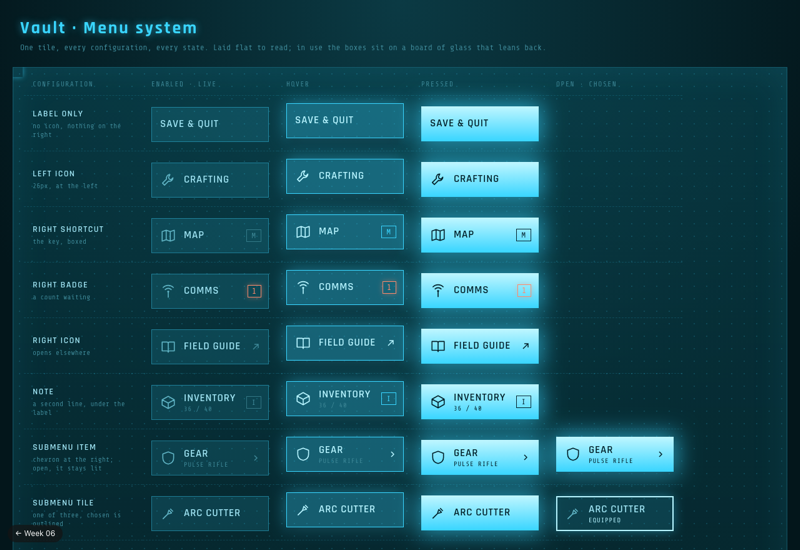
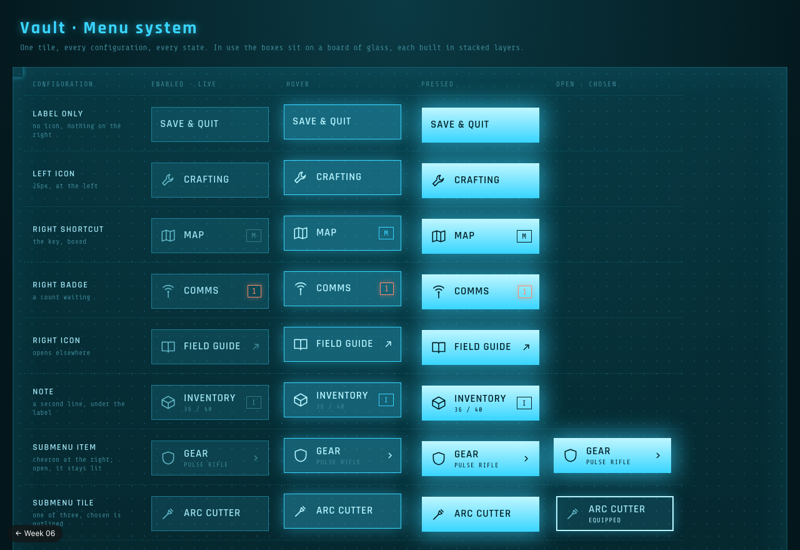
Week 06 Set 1 Vault: no tilt; the board seen straight on, each box's stacked layers stepping up and left
Claude-Session: https://claude.ai/code/session_01NJxmaEWhDanH1Md96UKkh6

diff --git a/week-06/week-06-vault-menu.html b/week-06/week-06-vault-menu.html
@@ -5,28 +5,27 @@
   <meta name="viewport" content="width=device-width, initial-scale=1" />
   <title>Week 06 · Set 1 · Vault · In use</title>
   <link rel="icon" href="../shared/favicon.svg" type="image/svg+xml" />
-  <link rel="stylesheet" href="week-06-vault.css?v=7" />
+  <link rel="stylesheet" href="week-06-vault.css?v=8" />
   <style>
   /* In use: the field menu of VAULT, a sci-fi salvage game, on its own. Shut, it is a MENU prompt.
-     Opened (the prompt, or Tab), a board of glass rises out of a line of light, leaning back like the
-     reference's sheet of glass. Its items are wide, low boxes in sections, each built in steps like
-     stacked frames. Point at a box and it lifts and fills with light; press it and it lights right
+     Opened (the prompt, or Tab), a board of glass rises out of a line of light, seen straight on. Its items are wide, low boxes in sections, each built in steps like
+     stacked frames. Point at a box and it steps up and fills with light; press it and it lights right
      through. Gear opens a submenu: a second, smaller board stacked above the first. Esc, Resume or a
      click outside takes it all down again, right to left, and folds the glass back into its line. */
   *, *::before, *::after { box-sizing: border-box; }
   html, body { margin: 0; }
   body { background: var(--void); color: var(--ink); font: 500 14px/1.3 var(--font); -webkit-font-smoothing: antialiased; }
   button { font: inherit; }
-  :root { --w: 1200px; --h: 520px; --fit: 1; }
+  :root { --w: 1200px; --h: 470px; --fit: 1; }
   .hero { position: relative; height: 100vh; min-height: 420px; overflow: hidden; background: #010a0c; }
-  .stage { position: absolute; left: 50%; top: 50%; width: var(--w); height: var(--h); transform: translate(-50%, -50%) scale(var(--fit)); perspective: 1500px; perspective-origin: 50% 40%; overflow: hidden; }
+  .stage { position: absolute; left: 50%; top: 50%; width: var(--w); height: var(--h); transform: translate(-50%, -50%) scale(var(--fit)); overflow: hidden; }
   .stage > * { position: absolute; }
 
   /* ---------- the room: nothing but a dark floor of light, so the menu is all there is ---------- */
   .play { inset: 0; background: radial-gradient(55% 60% at 50% 70%, #0a3a44, #03161b 60%, #010a0c); }
 
   /* the prompt: all of the menu there is while it is shut */
-  .prompt { left: 520px; top: 340px; width: 160px; height: 40px; display: flex; align-items: center; justify-content: center; gap: 12px; padding: 0; border: 0; cursor: pointer;
+  .prompt { left: 520px; top: 290px; width: 160px; height: 40px; display: flex; align-items: center; justify-content: center; gap: 12px; padding: 0; border: 0; cursor: pointer;
     background: rgba(57, 213, 255, .1); box-shadow: inset 0 0 0 1px rgba(57, 213, 255, .45); color: var(--ink); font: 600 15px/1 var(--font); letter-spacing: .2em;
     transition: background-color var(--hover-time), box-shadow var(--hover-time), color var(--hover-time), opacity 160ms; }
   .prompt kbd { padding: 3px 6px; border: 1px solid rgba(95, 179, 196, .5); font: 400 11px/1 var(--mono); letter-spacing: .06em; color: var(--ink-3); }
@@ -35,7 +34,7 @@
   .stage.is-menu .prompt { opacity: 0; pointer-events: none; }
 
   /* ---------- the board: the bottom half of the screen ---------- */
-  .board { left: 30px; top: 250px; width: 1140px; height: 238px; transform-style: preserve-3d; transform: rotateX(var(--board-tilt)); transform-origin: 50% 100%; visibility: hidden;
+  .board { left: 30px; top: 190px; width: 1140px; height: 238px; visibility: hidden;
     transition: visibility 0s calc(var(--close-time) + 160ms); }
   .stage.is-menu .board { visibility: visible; transition: visibility 0s; }
   /* the line of light along its foot, then the glass rising out of it */
@@ -51,8 +50,7 @@
   .board-head { position: absolute; left: 28px; right: 28px; top: 16px; display: flex; align-items: baseline; gap: 18px; font: 400 11px/1 var(--mono); letter-spacing: .1em; color: var(--ink-3); }
   .board-head b { font: 700 18px/1 var(--font); letter-spacing: .16em; color: var(--cyan); text-shadow: 0 0 10px rgba(57, 213, 255, .6); }
   .board-head span:last-child { margin-left: auto; }
-  .sections { position: absolute; left: 28px; top: 54px; display: flex; gap: var(--section-gap); transform-style: preserve-3d; }
-  .section { transform-style: preserve-3d; }
+  .sections { position: absolute; left: 28px; top: 54px; display: flex; gap: var(--section-gap); }
 
   /* ---------- each box is built in steps, like the reference's stacked frames ----------
      1 two corner nodes land on the glass
@@ -63,21 +61,21 @@
      Taking it down runs the same steps backwards, faster. Boxes are built left to right, and taken
      down right to left. */
   @property --draw { syntax: "<percentage>"; inherits: false; initial-value: 0%; }
-  .slot { display: block; position: relative; transform-style: preserve-3d; }
+  .slot { display: block; position: relative; }
   .sections .slot { --d: calc(var(--open-time) + var(--k) * var(--stack-step)); --dl: calc((var(--n) - 1 - var(--k)) * var(--leave-step)); }
   .sub .slot { --d: calc(80ms + var(--k) * var(--stack-step)); --dl: calc((2 - var(--k)) * var(--leave-step)); }
   .b-dot, .b-foot, .b-mid, .b-flash { position: absolute; pointer-events: none; }
   .b-dot { width: 6px; height: 6px; background: var(--node); box-shadow: 0 0 8px var(--node); opacity: 0; scale: 0;
     transition: opacity 80ms linear calc(var(--dl) + 180ms), scale 80ms linear calc(var(--dl) + 180ms); }
-  .b-dot.a { left: -9px; top: -9px; } .b-dot.b { right: -9px; bottom: -9px; }
-  .b-foot { inset: -6px; --c: rgba(57, 213, 255, .5);
+  .b-dot.a { left: -3px; top: -3px; } .b-dot.b { right: -3px; bottom: -3px; }
+  .b-foot { inset: 0; --c: rgba(57, 213, 255, .5);
     background: linear-gradient(var(--c), var(--c)) 0 0 / var(--draw) 1px no-repeat, linear-gradient(var(--c), var(--c)) 0 0 / 1px var(--draw) no-repeat,
                 linear-gradient(var(--c), var(--c)) 100% 100% / var(--draw) 1px no-repeat, linear-gradient(var(--c), var(--c)) 100% 100% / 1px var(--draw) no-repeat;
     transition: --draw 120ms cubic-bezier(.6, 0, .9, .4) calc(var(--dl) + 100ms); }
-  .b-mid { inset: -3px; border: 1px dotted rgba(57, 213, 255, .55); opacity: 0; translate: 0 0 0;
+  .b-mid { inset: 0; border: 1px dotted rgba(57, 213, 255, .6); opacity: 0; translate: 0 0;
     transition: translate 140ms ease-in calc(var(--dl) + 60ms), opacity 120ms linear calc(var(--dl) + 60ms); }
-  .b-flash { inset: 0; translate: 0 0 var(--rest); box-shadow: inset 0 0 0 1px var(--cyan-hi), 0 0 18px rgba(57, 213, 255, .8); opacity: 0; }
-  .slot > .tile { opacity: 0; translate: 0 0 0;
+  .b-flash { inset: 0; translate: calc(var(--rest) * -1) calc(var(--rest) * -1); box-shadow: inset 0 0 0 1px var(--cyan-hi), 0 0 18px rgba(57, 213, 255, .8); opacity: 0; }
+  .slot > .tile { opacity: 0; translate: 0 0;
     transition: translate 160ms cubic-bezier(.5, 0, .9, .5) var(--dl), opacity 140ms linear var(--dl),
       transform var(--hover-time) var(--ease-out), background-color var(--hover-time) var(--ease-out), box-shadow var(--hover-time) var(--ease-out), color var(--hover-time) var(--ease-out); }
   .slot > .tile > * { opacity: 0; translate: 0 3px; transition: opacity 80ms linear var(--dl), translate 80ms linear var(--dl); }
@@ -86,9 +84,9 @@
   .stage.is-menu:not(.is-leaving) .sections .slot, .sub.is-open .slot { --on: 1; }
   .stage.is-menu:not(.is-leaving) .sections .b-dot, .sub.is-open .b-dot { opacity: .85; scale: 1; transition: opacity 90ms linear var(--d), scale 160ms var(--stack-ease) var(--d); }
   .stage.is-menu:not(.is-leaving) .sections .b-foot, .sub.is-open .b-foot { --draw: 100%; transition: --draw var(--draw-time) var(--ease-out) calc(var(--d) + var(--phase)); }
-  .stage.is-menu:not(.is-leaving) .sections .b-mid, .sub.is-open .b-mid { opacity: 1; translate: 0 0 var(--mid-z);
+  .stage.is-menu:not(.is-leaving) .sections .b-mid, .sub.is-open .b-mid { opacity: 1; translate: calc(var(--mid-z) * -1) calc(var(--mid-z) * -1);
     transition: translate 240ms var(--ease-out) calc(var(--d) + 2 * var(--phase)), opacity 120ms linear calc(var(--d) + 2 * var(--phase)); }
-  .stage.is-menu:not(.is-leaving) .sections .slot > .tile, .sub.is-open .slot > .tile { opacity: 1; translate: 0 0 var(--rest);
+  .stage.is-menu:not(.is-leaving) .sections .slot > .tile, .sub.is-open .slot > .tile { opacity: 1; translate: calc(var(--rest) * -1) calc(var(--rest) * -1);
     transition: translate var(--stack-time) var(--stack-ease) calc(var(--d) + 3 * var(--phase)), opacity 160ms linear calc(var(--d) + 3 * var(--phase)),
       transform var(--hover-time) var(--ease-out), background-color var(--hover-time) var(--ease-out), box-shadow var(--hover-time) var(--ease-out), color var(--hover-time) var(--ease-out); }
   .stage.is-menu:not(.is-leaving) .sections .b-flash, .sub.is-open .b-flash { animation: arrive var(--stack-time) linear both; animation-delay: calc(var(--d) + 3 * var(--phase)); }
@@ -109,7 +107,7 @@
   @keyframes caret { 50% { opacity: 0; } }
 
   /* ---------- the submenu: a smaller board, stacked above the first ---------- */
-  .sub { position: absolute; left: 330px; top: -110px; width: 616px; padding: 14px 16px 16px; transform-style: preserve-3d; transform: translateZ(70px); visibility: hidden;
+  .sub { position: absolute; left: 330px; top: -132px; width: 616px; padding: 14px 16px 16px; visibility: hidden;
     transition: visibility 0s 340ms; }
   .sub.is-open { visibility: visible; transition: visibility 0s; }
   .sub .board-glass { scale: 1 1; opacity: 0; transition: opacity 140ms linear 220ms; }
@@ -181,7 +179,7 @@
 
   <section class="spec" aria-labelledby="spec-title">
     <h2 id="spec-title">Spec</h2>
-    <p>Read from the values this page runs on. The menu is a board of glass leaning back; its items are wide, low boxes in sections, each built in steps like stacked frames.</p>
+    <p>Read from the values this page runs on. The menu is a board of glass, seen straight on; its items are wide, low boxes in sections, each built in steps like stacked frames.</p>
     <div class="spec-grid"></div>
   </section>
 
@@ -195,7 +193,7 @@
       const log = board.querySelector('.log'), dTitle = document.getElementById('d-title'), dDesc = document.getElementById('d-desc');
 
       // fit the 1200 × 520 frame to the window
-      const fit = () => root.style.setProperty('--fit', Math.min(innerWidth / 1200, innerHeight / 520) * .96);
+      const fit = () => root.style.setProperty('--fit', Math.min(innerWidth / 1200, innerHeight / 470) * .96);
       addEventListener('resize', fit); fit();
 
       // each box gets the layers it is built from: two corner nodes, a footprint, a dotted layer, an edge flash
@@ -299,6 +297,6 @@
       if (window.self === window.top) document.querySelector('.back-pill').removeAttribute('hidden');
     })();
   </script>
-  <script src="week-06-vault-spec.js?v=5"></script>
+  <script src="week-06-vault-spec.js?v=6"></script>
 </body>
 </html>

diff --git a/week-06/week-06-vault.css b/week-06/week-06-vault.css
@@ -1,9 +1,8 @@
 /* Week 06, Set 1 · Vault: the field menu of a sci-fi salvage game, after a holographic file
-   database. The menu is a board of glass that fills the bottom half of the play screen; its items
-   are tiles laid out on it in sections, the way the reference lays out its folders.
+   database. The menu is a board of glass; its items are boxes laid out on it in sections.
    Shared by the two prototypes (the menu system, the menu in use). Every value the spec
    reports is set here, once, as a token; the pages and the spec read the same numbers.
-   The tone: light projected on dark glass. Tiles glow, lift off the glass, and are stacked on. */
+   The tone: light projected on dark glass, seen straight on. Boxes glow, and are built in stacked layers. */
 @import url("https://fonts.googleapis.com/css2?family=Rajdhani:wght@500;600;700&family=Share+Tech+Mono&display=swap");
 
 :root {
@@ -28,7 +27,6 @@
   --size: 16px; --track: .08em;
 
   /* the board and its tile */
-  --board-tilt: 30deg;       /* the board leans back, like the reference's sheet of glass */
   --tile-w: 188px; --tile-h: 56px; --tile-gap: 10px; --tile-pad: 14px;
   --icon: 26px; --icon-stroke: 1.5;
   --label-size: 17px; --track: .05em;
@@ -38,7 +36,7 @@
   /* motion */
   --ease-out: cubic-bezier(.16, 1, .3, 1);
   --hover-time: 220ms;
-  --lift: 14px;              /* a tile rises off the glass when pointed at */
+  --lift: 4px;               /* pointed at, a box steps up and to the left by this much */
   --open-time: 380ms;        /* the board: a line of light along the bottom, then the glass rises from it */
   --close-time: 240ms;       /* the glass folds back down into its line */
   /* the tiles are stacked onto the board, one layer at a time */
@@ -51,8 +49,8 @@
   --node: #5cffc0;           /* the corner nodes */
   --phase: 75ms;             /* one step of a box's build after the next */
   --draw-time: 200ms;        /* the footprint lines run out of the nodes */
-  --mid-z: 5px;              /* the dotted layer stands this high */
-  --rest: 10px;              /* the box rests this high, on top of its stack */
+  --mid-z: 3px;              /* the dotted layer sits this far up and left of the footprint */
+  --rest: 6px;               /* the box rests this far up and left: the stack shows below it */
   --type-speed: 14ms;        /* the log types a letter at a time */
 }
 
@@ -67,7 +65,7 @@
 /* a section: its label and a dotted rule, then its tiles in a grid */
 .t-sect { display: flex; align-items: center; gap: 10px; margin: 0 0 12px; font: 400 11px/1 var(--mono); letter-spacing: .16em; color: var(--ink-3); text-transform: uppercase; }
 .t-sect::after { content: ""; flex: 1; height: 1px; background: repeating-linear-gradient(90deg, var(--line) 0 6px, transparent 6px 10px); }
-.t-grid { display: grid; grid-template-columns: repeat(var(--cols, 2), var(--tile-w)); gap: var(--tile-gap); transform-style: preserve-3d; }
+.t-grid { display: grid; grid-template-columns: repeat(var(--cols, 2), var(--tile-w)); gap: var(--tile-gap); }
 
 /* ---------- one tile, every configuration ---------- */
 /* a menu item is a plain box, wide and low: the icon at the left, the label beside it (a note under
@@ -75,7 +73,7 @@
 .tile { position: relative; display: block; width: var(--tile-w); height: var(--tile-h); margin: 0; padding: 0; border: 0; cursor: pointer; text-align: left; color: var(--ink);
   background: rgba(57, 213, 255, .13); box-shadow: inset 0 0 0 1px rgba(57, 213, 255, .4);
   font: 600 var(--label-size)/1 var(--font); letter-spacing: var(--track); text-transform: uppercase;
-  transform: translateZ(0); transform-style: preserve-3d;
+  transform: translate(0, 0);
   transition: transform var(--hover-time) var(--ease-out), background-color var(--hover-time) var(--ease-out), box-shadow var(--hover-time) var(--ease-out), color var(--hover-time) var(--ease-out); }
 .tile:focus-visible { outline: none; }
 .t-ico { position: absolute; left: var(--tile-pad); top: 50%; margin-top: calc(var(--icon) / -2); width: var(--icon); height: var(--icon); color: var(--ink-2); transition: color var(--hover-time); }
@@ -88,22 +86,22 @@
 .t-badge { position: absolute; right: 12px; top: 50%; margin-top: -10px; min-width: 22px; height: 20px; padding: 0 5px; border: 1px solid var(--alert); color: var(--alert); font: 400 13px/18px var(--mono); text-align: center; box-shadow: 0 0 8px rgba(255, 138, 107, .4); }
 .t-end, .t-more { position: absolute; right: 10px; width: 14px; height: 14px; color: var(--ink-3); transition: color var(--hover-time), translate var(--hover-time) var(--ease-out); }
 .t-end, .t-more { top: 50%; margin-top: -7px; right: 14px; }
-/* hover: the tile lifts off the glass and fills with light */
-.tile:hover, .tile:focus-visible, .tile.is-hover { transform: translateZ(var(--lift)); background: rgba(57, 213, 255, .3); color: var(--cyan-hi);
+/* hover: the box steps up and left, off its stack, and fills with light */
+.tile:hover, .tile:focus-visible, .tile.is-hover { transform: translate(calc(var(--lift) * -1), calc(var(--lift) * -1)); background: rgba(57, 213, 255, .3); color: var(--cyan-hi);
   box-shadow: inset 0 0 0 1px var(--cyan), 0 0 26px rgba(57, 213, 255, .45); }
 .tile:hover .t-ico, .tile:focus-visible .t-ico, .tile.is-hover .t-ico, .tile:hover .t-end, .tile.is-hover .t-end, .tile:hover .t-more, .tile.is-hover .t-more { color: var(--cyan-hi); }
 .tile:hover .t-key, .tile:focus-visible .t-key, .tile.is-hover .t-key { color: var(--cyan); border-color: var(--cyan); }
 .tile:hover .t-more, .tile.is-hover .t-more { translate: 3px 0; }
 /* pressed, or holding its submenu open: lit right through, like the open folder in the reference */
 .tile:active, .tile.is-press, .tile[aria-expanded="true"] { background: linear-gradient(#bff6ff, #39d5ff); color: #04232b; box-shadow: 0 0 34px 6px rgba(57, 213, 255, .6); }
-.tile:active, .tile.is-press { transform: translateZ(3px); }
-.tile[aria-expanded="true"] { transform: translateZ(var(--lift)); }
+.tile:active, .tile.is-press { transform: translate(1px, 1px); }
+.tile[aria-expanded="true"] { transform: translate(calc(var(--lift) * -1), calc(var(--lift) * -1)); }
 .tile:active .t-ico, .tile.is-press .t-ico, .tile[aria-expanded="true"] .t-ico, .tile:active .t-key, .tile.is-press .t-key, .tile[aria-expanded="true"] .t-more, .tile:active .t-more, .tile.is-press .t-more, .tile:active .t-note, .tile.is-press .t-note, .tile[aria-expanded="true"] .t-note, .tile:active .t-end, .tile.is-press .t-end { color: #04232b; border-color: #04232b; }
 /* chosen, in a submenu */
 .tile[aria-checked="true"] { box-shadow: inset 0 0 0 2px var(--cyan-hi), 0 0 18px rgba(57, 213, 255, .4); }
 .tile[aria-checked="true"] .t-note { color: var(--cyan-hi); }
-/* unavailable: kept in place, an outline of dashes, never lifts */
-.tile[aria-disabled="true"] { cursor: default; color: var(--ink-off); background: rgba(57, 213, 255, .03); box-shadow: none; outline: 1px dashed rgba(95, 179, 196, .35); outline-offset: -1px; transform: translateZ(0); }
+/* unavailable: kept in place, an outline of dashes, never steps up */
+.tile[aria-disabled="true"] { cursor: default; color: var(--ink-off); background: rgba(57, 213, 255, .03); box-shadow: none; outline: 1px dashed rgba(95, 179, 196, .35); outline-offset: -1px; transform: translate(0, 0); }
 .tile[aria-disabled="true"] .t-ico, .tile[aria-disabled="true"] .t-note, .tile[aria-disabled="true"] .t-key { color: var(--ink-off); border-color: rgba(95, 179, 196, .2); }
 .tile.is-no { animation: deny 360ms var(--ease-out); }
 @keyframes deny { 30% { outline-color: var(--alert); color: var(--alert); translate: -4px 0; } 60% { translate: 3px 0; } }

diff --git a/week-06/week-06.html b/week-06/week-06.html
@@ -614,7 +614,7 @@
       <div class="set-grid">
         <div class="set-box" id="set-1">
           <button type="button" class="set-card" aria-haspopup="dialog" aria-controls="dlg-1">
-            <span class="set-thumbs" aria-hidden="true"><img src="images/process/vault-menu-1.png?v=11" alt="" loading="lazy" /><img src="images/process/vault-system-1.png?v=11" alt="" loading="lazy" /></span>
+            <span class="set-thumbs" aria-hidden="true"><img src="images/process/vault-menu-1.png?v=12" alt="" loading="lazy" /><img src="images/process/vault-system-1.png?v=12" alt="" loading="lazy" /></span>
             <span class="set-head"><span class="set-num">Set 1</span><span class="set-name">Vault</span><span class="set-line">Futuristic. The field menu of a sci-fi salvage game, after a holographic file database: a board of glass rises out of a line of light, and each of its items, plain boxes in sections, is built in steps like stacked frames: corner nodes, a footprint drawn out of them, a dotted layer, then the box on top.</span></span>
             <span class="set-open" aria-hidden="true"></span>
           </button>
@@ -627,19 +627,19 @@
               <h4>Prototypes</h4>
               <div class="proto-grid">
                 <figure class="proto">
-                  <iframe src="week-06-vault-system.html?v=7" title="Vault menu system: every item configuration in enabled, hover and pressed, with its spec" loading="lazy"></iframe>
+                  <iframe src="week-06-vault-system.html?v=8" title="Vault menu system: every item configuration in enabled, hover and pressed, with its spec" loading="lazy"></iframe>
                   <figcaption>
                     <b>Menu system</b>
                     <span>One tile build in every configuration, laid flat to read: label only, left icon, key, badge, right icon, a note line, a submenu tile and a tile in the submenu, unavailable, and a section. Enabled, hover, pressed, and open or chosen. The spec follows.</span>
-                    <button type="button" class="viewer-open" data-src="week-06-vault-system.html?v=7">View larger</button>
+                    <button type="button" class="viewer-open" data-src="week-06-vault-system.html?v=8">View larger</button>
                   </figcaption>
                 </figure>
                 <figure class="proto">
-                  <iframe src="week-06-vault-menu.html?v=8" title="Vault in use: a holographic file database" loading="lazy"></iframe>
+                  <iframe src="week-06-vault-menu.html?v=9" title="Vault in use: a holographic file database" loading="lazy"></iframe>
                   <figcaption>
                     <b>In use</b>
-                    <span>Shut, the menu is a MENU prompt. Click it or press Tab: a line of light runs out and the glass rises from it, then the boxes are built left to right, each in steps: two corner nodes land, a footprint is drawn out of them, a dotted layer rises, the box rises on top with an edge flash, and its writing comes up last. Point at a tile and it lifts; press it and it lights through. Gear opens a smaller board stacked above. Arrows move between tiles; Esc, Resume or a click outside takes the boxes down right to left, the same steps backwards, and folds the glass away. The spec follows.</span>
-                    <button type="button" class="viewer-open" data-src="week-06-vault-menu.html?v=8">View larger</button>
+                    <span>Shut, the menu is a MENU prompt. Click it or press Tab: a line of light runs out and the glass rises from it, then the boxes are built left to right, each in steps: two corner nodes land, a footprint is drawn out of them, a dotted layer rises, the box rises on top with an edge flash, and its writing comes up last. Point at a box and it steps up; press it and it lights through. Gear opens a smaller board above it. Arrows move between tiles; Esc, Resume or a click outside takes the boxes down right to left, the same steps backwards, and folds the glass away. The spec follows.</span>
+                    <button type="button" class="viewer-open" data-src="week-06-vault-menu.html?v=9">View larger</button>
                   </figcaption>
                 </figure>
               </div>
@@ -650,12 +650,12 @@
                 <figure><img src="images/process/seance-menu-1.png" alt="S&eacute;ance, a horror game&rsquo;s menu on a spirit board" loading="lazy" /><figcaption>S&eacute;ance: a horror game on a spirit board.</figcaption></figure>
                 <figure><img src="images/process/harvest-menu-1.png" alt="Harvest, a pixel farming game&rsquo;s menu" loading="lazy" /><figcaption>Harvest: a pixel farm, moving in steps.</figcaption></figure>
                 <figure><img src="images/process/ledger-menu-1.png" alt="Ledger, a finance app&rsquo;s Move money menu" loading="lazy" /><figcaption>Ledger: a finance app, smooth springs.</figcaption></figure>
-                <figure><img src="images/process/vault-menu-0.png?v=11" alt="Vault, the menu shut" loading="lazy" /><figcaption>Vault, shut: only the MENU prompt.</figcaption></figure>
-                <figure><img src="images/process/vault-menu-1.png?v=11" alt="Vault, the menu and its submenu open" loading="lazy" /><figcaption>Vault, open: the board, Gear&rsquo;s rack stacked above it.</figcaption></figure>
+                <figure><img src="images/process/vault-menu-0.png?v=12" alt="Vault, the menu shut" loading="lazy" /><figcaption>Vault, shut: only the MENU prompt.</figcaption></figure>
+                <figure><img src="images/process/vault-menu-1.png?v=12" alt="Vault, the menu and its submenu open" loading="lazy" /><figcaption>Vault, open: the board, Gear&rsquo;s rack stacked above it.</figcaption></figure>
               </div>
               <p class="process-label">Menu system</p>
               <div class="process-grid">
-                <figure><img src="images/process/vault-system-1.png?v=11" alt="Vault menu system" loading="lazy" /><figcaption>Every configuration in three states.</figcaption></figure>
+                <figure><img src="images/process/vault-system-1.png?v=12" alt="Vault menu system" loading="lazy" /><figcaption>Every configuration in three states.</figcaption></figure>
               </div>
             </div>
           </dialog>

diff --git a/week-06/week-06-vault-system.html b/week-06/week-06-vault-system.html
@@ -5,11 +5,11 @@
   <meta name="viewport" content="width=device-width, initial-scale=1" />
   <title>Week 06 · Set 1 · Vault · Menu system</title>
   <link rel="icon" href="../shared/favicon.svg" type="image/svg+xml" />
-  <link rel="stylesheet" href="week-06-vault.css?v=7" />
+  <link rel="stylesheet" href="week-06-vault.css?v=8" />
   <style>
   /* Menu system: one tile build, every configuration the brief asks for, each in its states, laid
      flat so it can be read. The Enabled column is live; the others hold the states still, to
-     compare. Flat, a tile's lift is shown as a rise of 6px and a shadow below it. */
+     compare.  */
   *, *::before, *::after { box-sizing: border-box; }
   html, body { margin: 0; }
   body { background: radial-gradient(80% 60% at 50% 0%, #0b3a44, var(--void) 70%) var(--void); color: var(--ink); font: 500 14px/1.4 var(--font); -webkit-font-smoothing: antialiased; }
@@ -27,17 +27,13 @@
   td:first-child small { display: block; margin-top: 4px; font: 400 11px/1.3 var(--mono); letter-spacing: .02em; color: var(--ink-3); text-transform: none; }
   .none { font: 400 11px/1 var(--mono); color: var(--ink-off); letter-spacing: .08em; }
   .sect-cell { width: 300px; }
-  /* flat, the lift is shown as a rise and a shadow */
-  .sheet .tile:hover, .sheet .tile.is-hover, .sheet .tile[aria-expanded="true"] { translate: 0 -6px; box-shadow: inset 0 0 0 1px var(--cyan), 0 0 26px rgba(57, 213, 255, .45), 0 12px 14px -6px rgba(0, 0, 0, .6); }
-  .sheet .tile[aria-expanded="true"] { box-shadow: 0 0 34px 6px rgba(57, 213, 255, .6), 0 12px 14px -6px rgba(0, 0, 0, .6); }
-  .sheet .tile:active, .sheet .tile.is-press { translate: 0 -1px; }
   .back-pill { position: fixed; left: 12px; bottom: 12px; z-index: 9; font: 12px/1 system-ui, sans-serif; color: #fff; background: rgba(20, 20, 20, .72); padding: 8px 12px; border-radius: 999px; text-decoration: none; }
   </style>
 </head>
 <body>
   <header class="top">
     <h1>Vault · Menu system</h1>
-    <p>One tile, every configuration, every state. Laid flat to read; in use the boxes sit on a board of glass that leans back.</p>
+    <p>One tile, every configuration, every state. In use the boxes sit on a board of glass, each built in stacked layers.</p>
   </header>
 
   <div class="sheet">
@@ -116,6 +112,6 @@
     addEventListener('resize', fit); fit(); document.fonts?.ready.then(fit);
     if (window.self === window.top) document.querySelector('.back-pill').removeAttribute('hidden');
   </script>
-  <script src="week-06-vault-spec.js?v=5"></script>
+  <script src="week-06-vault-spec.js?v=6"></script>
 </body>
 </html>

diff --git a/week-06/week-06-vault-spec.js b/week-06/week-06-vault-spec.js
@@ -37,7 +37,7 @@
 
   const cards = [
     ['Board', [
-      ['Leans back', tok('--board-tilt')],
+      ['View', 'straight on, no tilt'],
       ['Glass', 'dotted every 20px, 62% to 80%'],
       ['Edge', `1px, ${hex(cs('glass').borderTopColor)}`],
       ['Corners', `18px brackets, ${tok('--edge')}`],
@@ -66,15 +66,15 @@
     ]],
     ['States', [
       ['Enabled', `${sw(tile.color)} on 13% light`],
-      ['Hover', `lifts ${tok('--lift')}, fill ${hex(cs('hover').backgroundColor)}, 26px glow`],
+      ['Hover', `steps ${tok('--lift')} up and left, fill ${hex(cs('hover').backgroundColor)}, 26px glow`],
       ['Pressed', `lit through, ink ${hex(cs('press').color)}, sinks to 3px`],
-      ['Submenu open', 'lit through, stays lifted'],
+      ['Submenu open', 'lit through, stays stepped up'],
       ['Chosen', '2px hot outline, “EQUIPPED”'],
-      ['Unavailable', `${sw(cs('off').color)}, dashed outline, never lifts`],
+      ['Unavailable', `${sw(cs('off').color)}, dashed outline, never steps up`],
     ]],
     ['Submenu', [
       ['Form', 'a smaller board, stacked above the first'],
-      ['Stands', '70px above the board'],
+      ['Sits', 'above the board, over its row'],
       ['Its boxes', 'built the same way, in five steps'],
       ['Tiles', 'three, one chosen at a time'],
     ]],
@@ -88,8 +88,8 @@
     ['Motion · one box built', [
       ['1 · nodes', `two, opposite corners, 6px ${hex(tok('--node'))}`],
       ['2 · footprint', `+${tok('--phase')}, lines run out of the nodes, ${tok('--draw-time')}`],
-      ['3 · dotted layer', `+${2 * ms('--phase')}ms, rises to ${tok('--mid-z')}`],
-      ['4 · the box', `+${3 * ms('--phase')}ms, rises to ${tok('--rest')}, ${tok('--stack-time')}, edge flash`],
+      ['3 · dotted layer', `+${2 * ms('--phase')}ms, steps ${tok('--mid-z')} up and left`],
+      ['4 · the box', `+${3 * ms('--phase')}ms, steps ${tok('--rest')} up and left onto it, ${tok('--stack-time')}, edge flash`],
       ['Rise curve', tok('--stack-ease')],
       ['5 · its writing', `+${4.5 * ms('--phase')}ms, comes up 3px`],
     ]],
